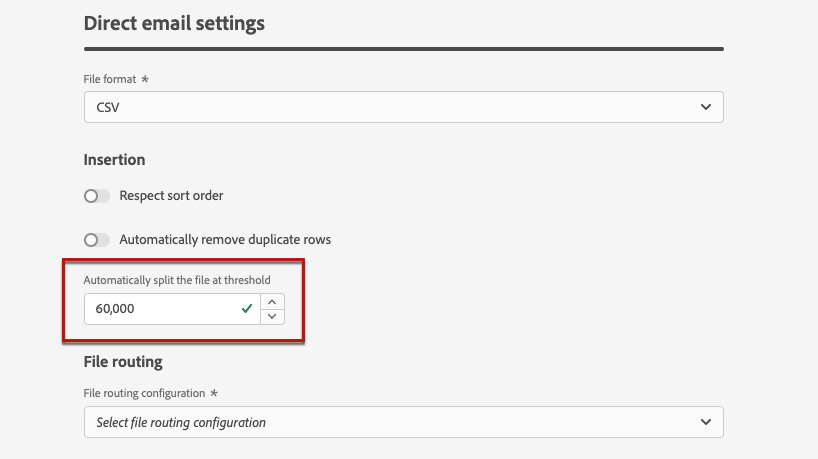
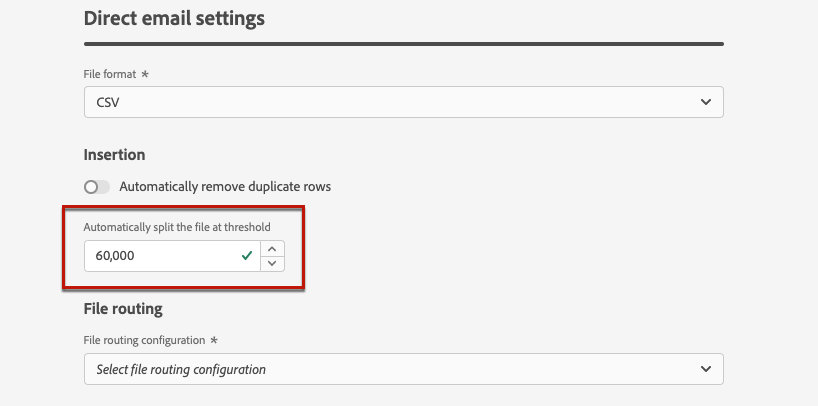
DM config - removed sort order option

diff --git a/help/using/configuration/direct-mail-configuration.md b/help/using/configuration/direct-mail-configuration.md
@@ -109,13 +109,7 @@ Once file routing has been configured, you need to create a channel surface to b
 
 1. Select the file format: **[!UICONTROL CSV]** or **[!UICONTROL Text delimited]**.
 
-1. In the **[!UICONTROL Insertion]** section, specify if you want to respect the sort order defined here in the surface settings or in the [direct mail message](../messages/create-direct-mail.md).<!--TBC by PM, not sure to leave it here as it's confusing for the user to override or not the setting defined in the message i.e. somewhere else in the UI-->
-
-    ![](assets/surface-direct-mail-sort.png)
-
-    If you select this option, the sorting will be done by profile ID. You can define if the sort order is ascending (at the start of the file) or descending (at the end of the file).
-
-1. You can choose to automatically remove duplicate rows. <!--what are the conditions? use case, example for not selecting it? asked to PM-->
+1. In the **[!UICONTROL Insertion]** section, you can choose to automatically remove duplicate rows.
 
 1. Define the maximum number of records (i.e. rows) for each file containing profile data. After the specified threshold is reached, another file will be created for the remaining records.
 
